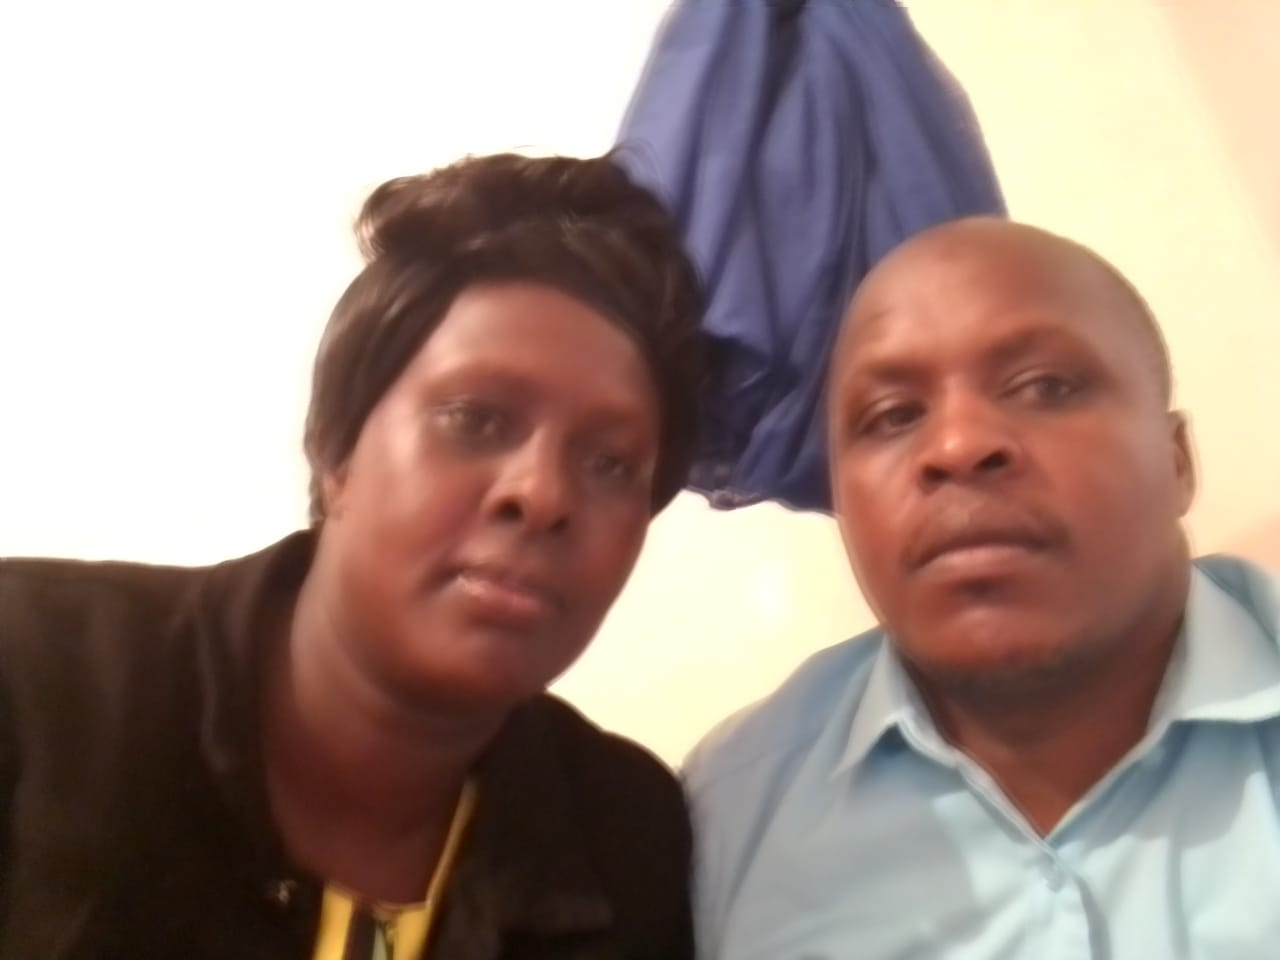
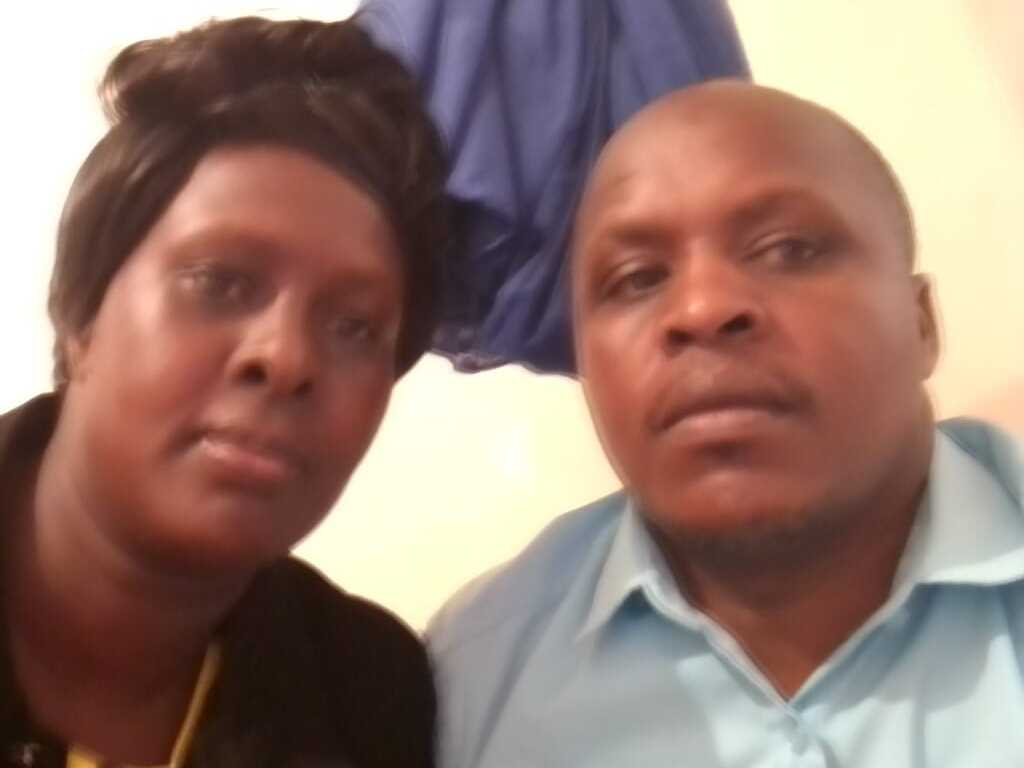
fix: update leader names, fix image cropping on all portrait cards
- Ministry Coordinator: rename to Ev. Ronald and Mrs. Emmaculate Chiwai
  (was Ronald Ngala Chiwai and Mrs. Chiwai)
- Meru Regional Overseer: rename to Rev. Charlse Koech and Mrs. Caroline
  Cheropkoech (was Rev. Rotich and Mrs. Stellar Kamama) in both REGIONS
  array and OVERSEER_BY_REGION; updated bio to match
- OrgTree.tsx: change all portrait img tags from object-top → object-center
  so passport-style photos (coordinator, Meru overseers) are not cropped
  at the face

diff --git a/src/lib/mock-data.ts b/src/lib/mock-data.ts
@@ -45,10 +45,10 @@ export const REGIONS: Region[] = [
   {
     id: "meru",
     name: "Meru",
-    overseerName: "Rev. Rotich and Mrs. Stellar Kamama",
+    overseerName: "Rev. Charlse Koech and Mrs. Caroline Cheropkoech",
     overseerPhotoURL: "/images/leadership/meru-rotich-stellar.jpg",
     description:
-      "Bringing hope and the Word of God to Meru and beyond, led by Rev. Rotich and Mrs. Stellar Kamama.",
+      "Bringing hope and the Word of God to Meru and beyond, led by Rev. Charlse Koech and Mrs. Caroline Cheropkoech.",
   },
   {
     id: "kilifi",
@@ -110,13 +110,13 @@ const OVERSEER_BY_REGION: Partial<
   >
 > = {
   meru: {
-    name: "Rev. Rotich",
-    displayName: "Rev. Rotich and Mrs. Stellar Kamama",
+    name: "Rev. Charlse Koech",
+    displayName: "Rev. Charlse Koech and Mrs. Caroline Cheropkoech",
     title: "Overseer",
-    spouseName: "Mrs. Stellar Kamama",
+    spouseName: "Mrs. Caroline Cheropkoech",
     // Joint couple photo
     photoURL: MERU_OVERSEERS_PHOTO,
-    bio: "Rev. Rotich and Mrs. Stellar Kamama serve as Regional Overseers for Meru Region, shepherding branch pastors and advancing ministry in Meru and surrounding communities.",
+    bio: "Rev. Charlse Koech and Mrs. Caroline Cheropkoech serve as Regional Overseers for Meru Region, shepherding branch pastors and advancing ministry in Meru and surrounding communities.",
   },
   "north-rift": {
     name: "Regional Overseers [To Confirm]",
@@ -201,16 +201,16 @@ export const NATIONAL_LEADERSHIP: Leader[] = [
   },
   {
     id: "ministry-coordinator",
-    name: "Ronald Ngala Chiwai",
+    name: "Ev. Ronald Chiwai",
     title: "Ministry Coordinator",
     band: "national_cabinet",
     level: 1,
     sortOrder: 1,
     photoURL: RONALD_CHIWAI_PHOTO,
     spousePhotoURL: RONALD_CHIWAI_SPOUSE_PHOTO,
-    spouseName: "Mrs. Chiwai",
-    displayName: "Ronald Ngala Chiwai and Mrs. Chiwai",
-    bio: "Ronald Ngala Chiwai serves as Ministry Coordinator for Jesus Christ Ministries, aligning national programmes and departments under the Bishop’s vision.",
+    spouseName: "Mrs. Emmaculate Chiwai",
+    displayName: "Ev. Ronald and Mrs. Emmaculate Chiwai",
+    bio: "Ev. Ronald and Mrs. Emmaculate Chiwai serve Jesus Christ Ministries as Ministry Coordinator, aligning national programmes and departments under the Bishop's vision.",
   },
   {
     id: "treasurer-national",

diff --git a/src/components/leadership/OrgTree.tsx b/src/components/leadership/OrgTree.tsx
@@ -139,7 +139,7 @@ function CouplePortrait({
         <img
           src={leader.photoURL}
           alt={headlineName(leader)}
-          className="h-full w-full object-cover object-top"
+          className="h-full w-full object-cover object-center"
           loading="lazy"
         />
       </div>
@@ -158,14 +158,14 @@ function CouplePortrait({
         <img
           src={leader.photoURL}
           alt={leader.name}
-          className="h-full w-full rounded-lg object-cover object-top"
+          className="h-full w-full rounded-lg object-cover object-center"
           loading="lazy"
         />
         {/* eslint-disable-next-line @next/next/no-img-element */}
         <img
           src={leader.spousePhotoURL}
           alt={leader.spouseName ?? "Spouse"}
-          className="h-full w-full rounded-lg object-cover object-top"
+          className="h-full w-full rounded-lg object-cover object-center"
           loading="lazy"
         />
       </div>
